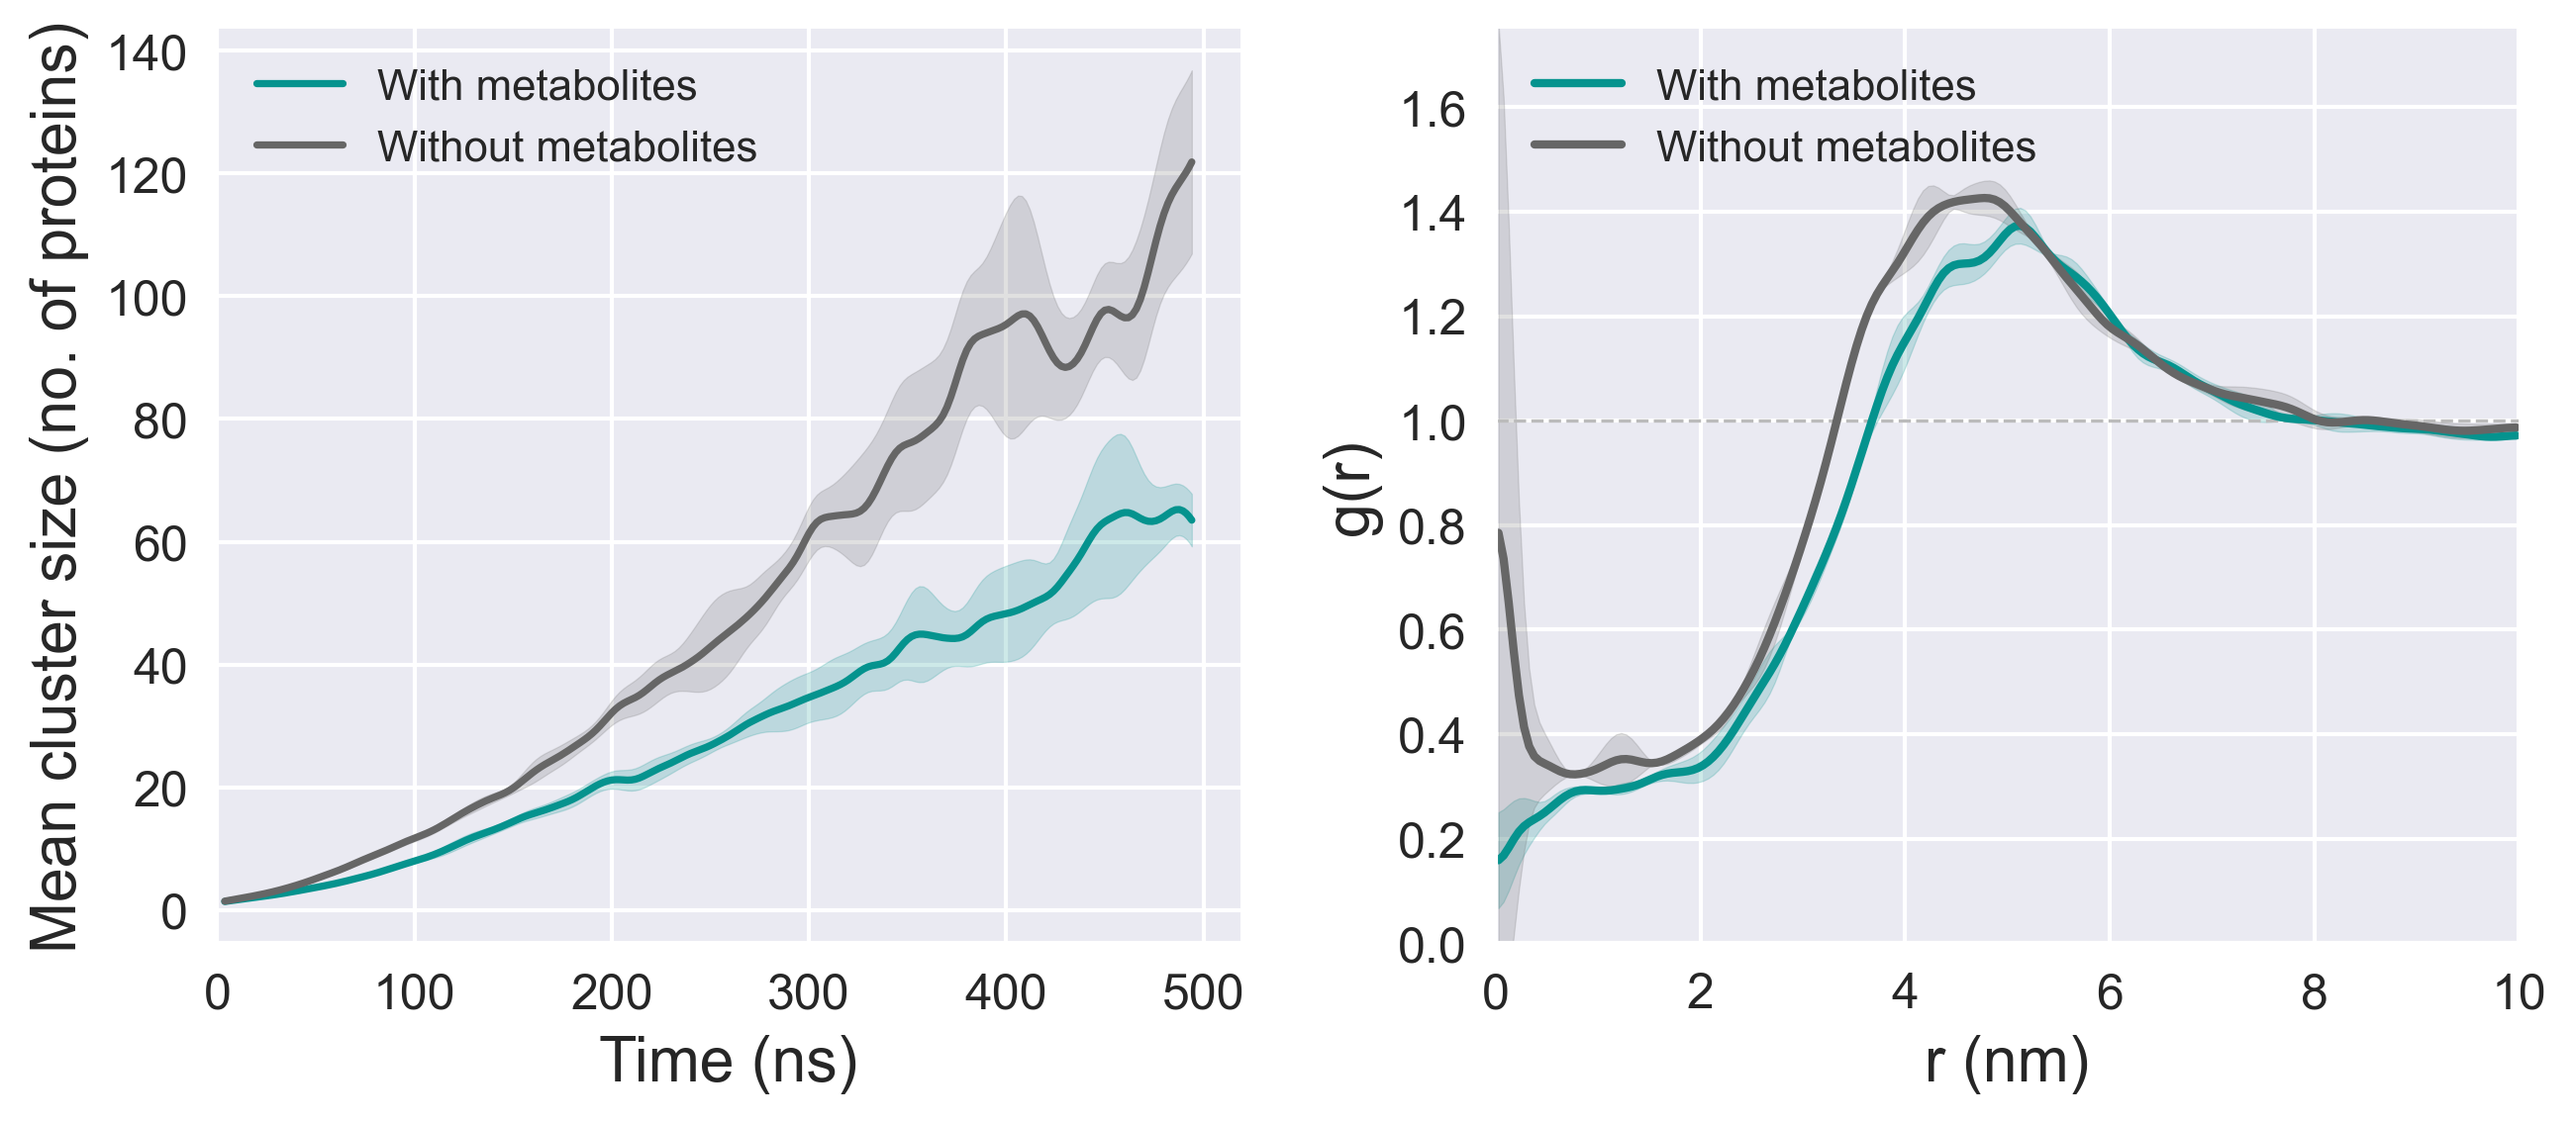
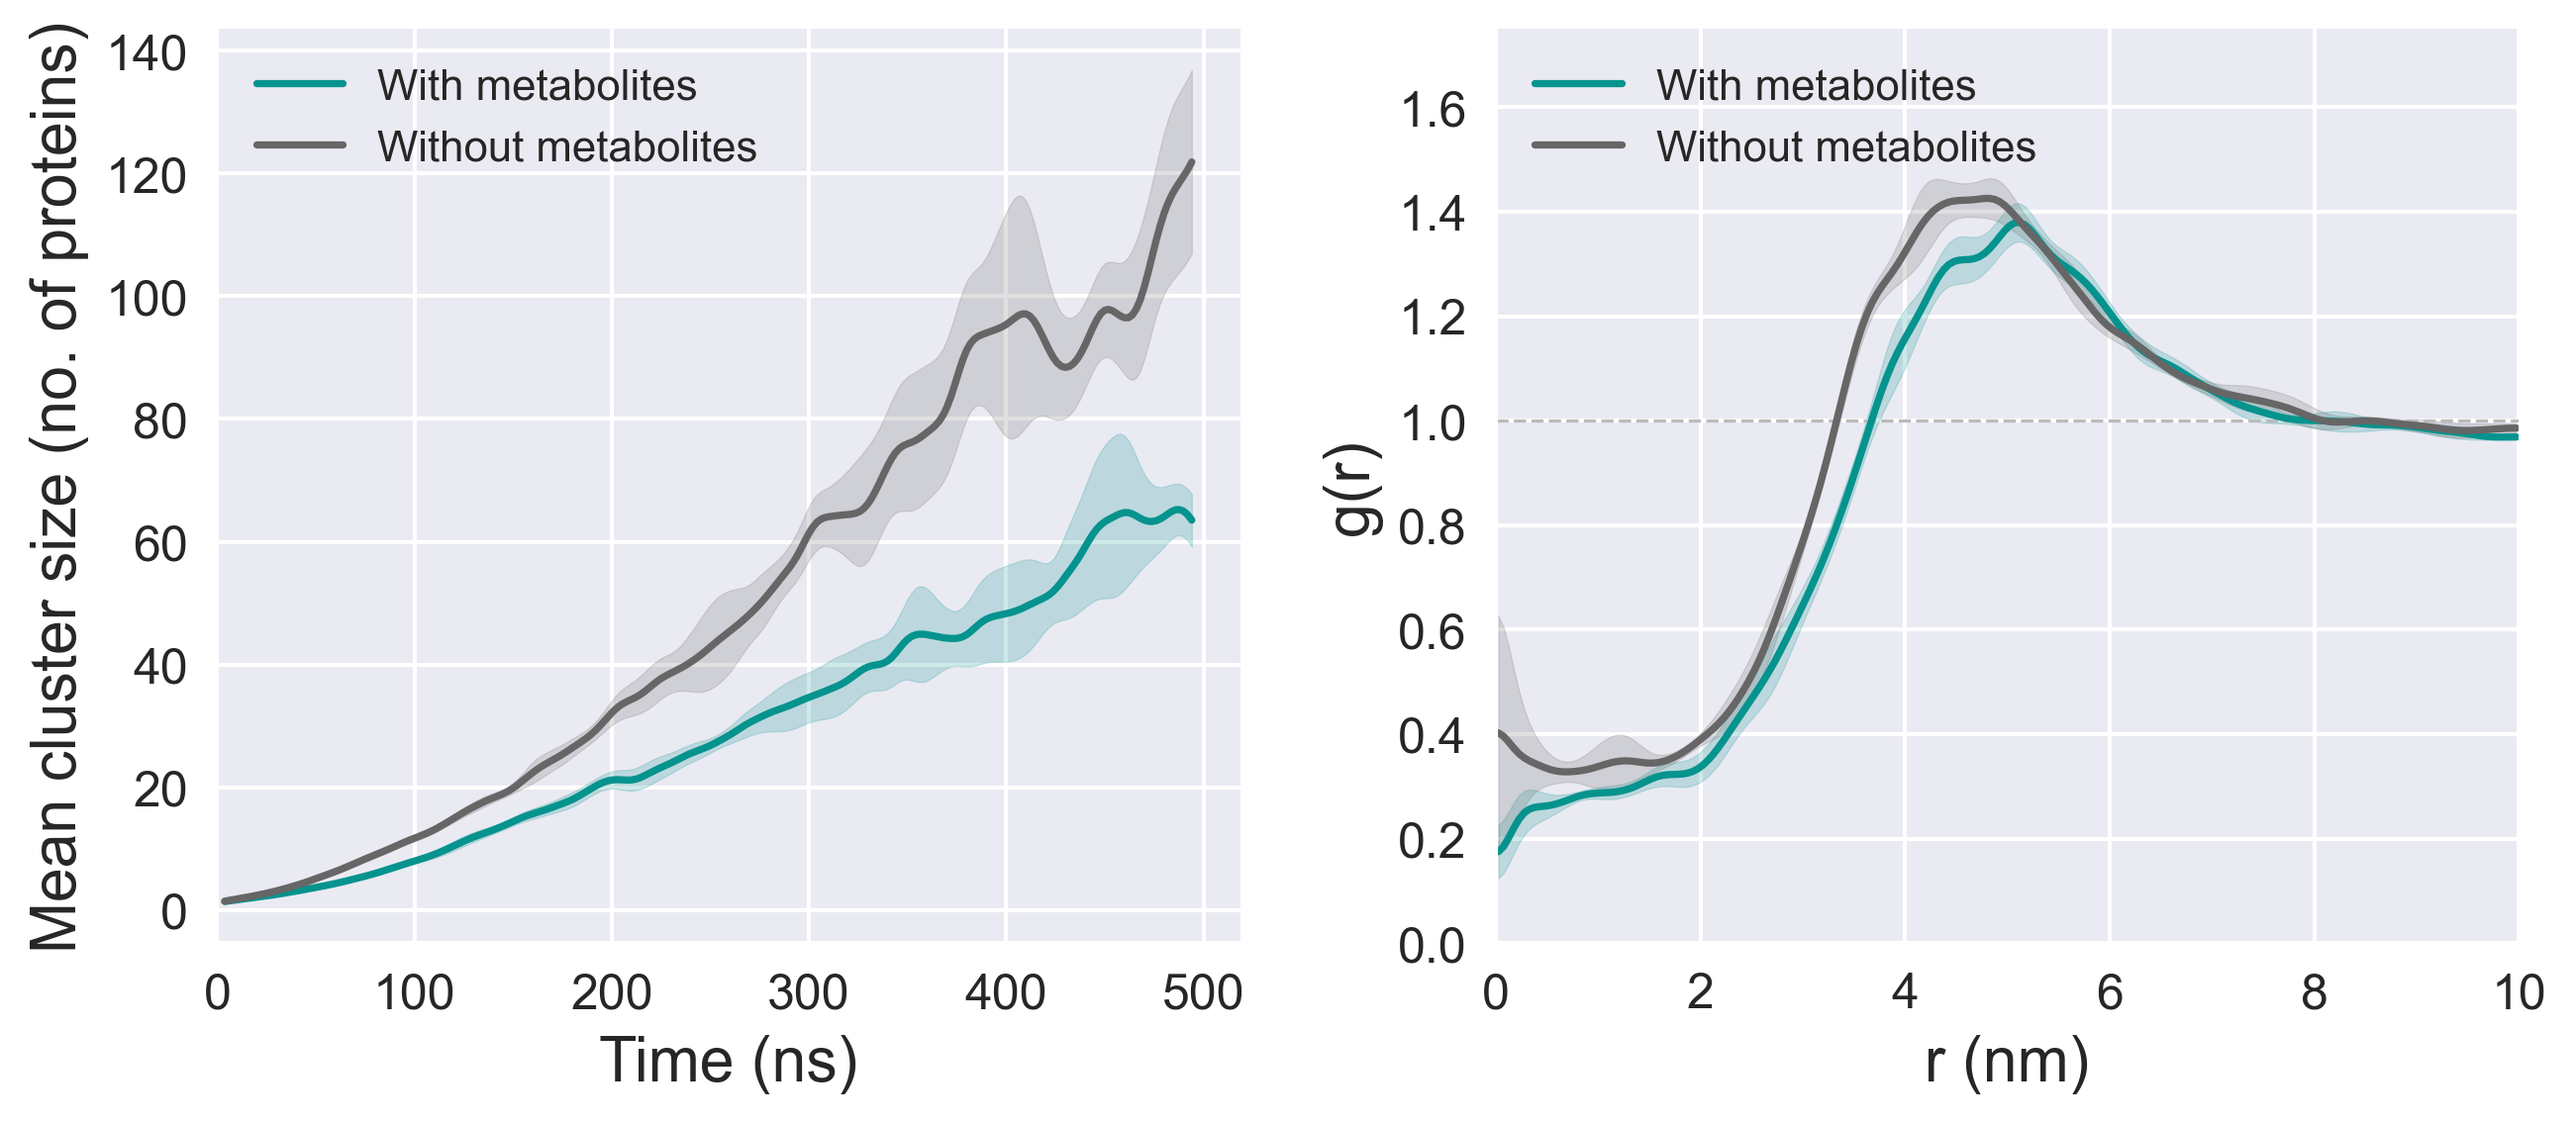
udpated

diff --git a/figures/protein_clusters_rdf/plot.py b/figures/protein_clusters_rdf/plot.py
@@ -83,24 +83,33 @@ def cluster_plotter(path, label, ax, col):
                     color=col,
                     )
 
-def rdf_plot(path, ax, color, label):
+def rdf_plot(path, ax):
     
-    # fs = "../../analysed_data/with_metabolites/*/protein_rdf_*.pkl"
+    labs = {'with_metabolites': 'With metabolites',
+            'without_metabolites': 'Without metabolites',
+            }
+    cols = {'with_metabolites': '#05938E',
+            'without_metabolites': '#666666',
+            }
+    data = pickle.load(open(path, 'rb'))
     
-    SMOOTH_SIGMA_RDF     = 3
-    
-    results_files = sorted(glob.glob(path))
-    results_list  = [pickle.load(open(f, 'rb')) for f in results_files]
-    
-    r = np.stack([i['r'] for i in results_list]).mean(axis=0) / 10
-    _gr = np.stack([gaussian_filter1d(i['gr'], sigma=SMOOTH_SIGMA_RDF) for i in results_list])
-    # gr = _gr.mean(axis=0)
-    # gr_err = _gr.std(axis=0)
+    for i,j in data.items():
+        ax.plot(j['r']/10,
+                gaussian_filter1d(j['gr_mean'], 3),
+                label=labs[i],
+                c = cols[i]
+                )
+        ax.fill_between(j['r']/10,
+                gaussian_filter1d(j['gr_mean'], 3) - gaussian_filter1d(j['gr_std'], 3),
+                gaussian_filter1d(j['gr_mean'], 3) + gaussian_filter1d(j['gr_std'], 3),
+                # label=labs[i],
+                color = cols[i],
+                alpha=.2
+                )
+        
+    ax.legend()
 
-    mean = _gr.mean(axis=0)
-    std  = _gr.std(axis=0)
-    ax.plot(r, mean, color=color, lw=2.0, solid_capstyle='round', label=label)
-    ax.fill_between(r, mean - std, mean + std, color=color, alpha=0.2)
+    
 
 fig, (ax1,ax2) = plt.subplots(    1, 2, figsize=(10, 4),
     gridspec_kw={'width_ratios': [1, 1], 'wspace': 0.25}
@@ -118,13 +127,16 @@ ax1.legend()
 ax1.set_xlim(left=0)
 ax1.legend(loc='upper left', frameon=False, fontsize=10.5)
 
-rdf_plot("../../analysed_data/with_metabolites/*/protein_rdf_*.pkl",
-         ax2,
-         color='#05938E',label='With metabolites')
 
-rdf_plot("../../analysed_data/no_metabolites/*/protein_rdf_*.pkl",
-         ax2,
-         color='#666666',label='Without metabolites')
+rdf_plot('protein_rdf.pkl',
+         ax2
+         )
+         # ax2,
+         # color='#05938E',label='With metabolites')
+
+# rdf_plot("../../analysed_data/no_metabolites/*/protein_rdf_*.pkl",
+#          ax2,
+#          color='#666666',label='Without metabolites')
 
 ax2.axhline(1.0, color='#BBBBBB', lw=0.8, ls='--', zorder=1)
 ax2.set_xlabel('r (nm)', fontsize=15)

diff --git a/figures/fig3/figure_3.py b/figures/fig3/figure_3.py
@@ -69,7 +69,7 @@ colors = {
 
 cl_labels = [
     'Ions',
-    'Lipids',
+    'Fatty\nacid',
     'Nucleotides',
     'Cofactors',
     'Amino\nacids',
@@ -93,6 +93,7 @@ Diffusion
 diffusion_dict = pickle.load(open(f'{base}/processed_data/diffusion/diffusion_coefficients.pkl', 'rb'))
 
 data_in = []
+extra = []
 for cl in colors.keys():
     data_in.append([j[0] for i,j in diffusion_dict['results'][cl].items()])
 
@@ -105,7 +106,7 @@ parts = ax0.violinplot(data_in,
 for i, pc in enumerate(parts['bodies']):
     pc.set_facecolor(list(colors.values())[i])
     # pc.set_edgecolor('black')
-    # pc.set_linewidth(2)
+    pc.set_linewidth(2)
     
     pc.set_alpha(1)
     pc.set_edgecolor('#262626')
@@ -115,7 +116,7 @@ for i,j in parts.items():
         continue
     else:
         parts[i].set_colors('#262626')
-        parts[i].set_linewidth(3)
+        parts[i].set_linewidth(5)
 
 
 """
@@ -232,7 +233,7 @@ non_binders = binding_values[np.where(np.array(labels) == False)[0]]
 known_binders_err = binding_errors[np.where(np.array(labels) == True)[0]]
 non_binders_err = binding_errors[np.where(np.array(labels) == False)[0]]
 
-mw_iters = 50000
+mw_iters = 100000
 
 U_vals, p_vals = bootstrap_mannwhitney(
     known_binders, known_binders_err,

diff --git a/figures/partitioning_figures/partitioningper_class_per_mol.py b/figures/partitioning_figures/partitioningper_class_per_mol.py
@@ -146,9 +146,12 @@ def plot_time_averaged_by_class(avg_frac, std_frac, mol_to_class):
             # patch_artist=True,
             zorder=10           
         )
-
-        ax.set_title(' '.join(cls.split('_')),
-                     fontsize=20)
+        title = ' '.join(cls.split('_'))
+        if title != 'Lipids':
+            ax.set_title(' '.join(cls.split('_')),
+                         fontsize=20)
+        else:
+            ax.set_title('Fatty acid', fontsize=20)
         ax.set_xticks([])
         ax.set_ylim(0, 1)
 

diff --git a/figures/partitioning_figures/make_figure_partitioning_evolution.py b/figures/partitioning_figures/make_figure_partitioning_evolution.py
@@ -54,8 +54,6 @@ ax.stackplot(proportion_values[:, 0],  # time
              linewidth=0,
              labels=['Soluble', 'Protein-associated', 'Clustered'])
 
-
-
 ax.fill_between(proportion_values[:, 0],  # time
                 proportion_values.T[2] - proportion_errs.T[2],
                 proportion_values.T[2] + proportion_errs.T[2],

diff --git a/figures/partitioning_figures/partitioning_summary.py b/figures/partitioning_figures/partitioning_summary.py
@@ -22,7 +22,7 @@ CLASS_LABELS = {
     'Carbohydrates': 'Carbohyd.', 
     'Cofactors': 'Cofactors',
     'Ions': 'Ions', 
-    'Lipids': 'Lipids', 
+    'Lipids': 'Fatty acid', 
     'Nucleotides': 'Nucleotides', 
     'Other_Metabolites': 'Other',
 }
